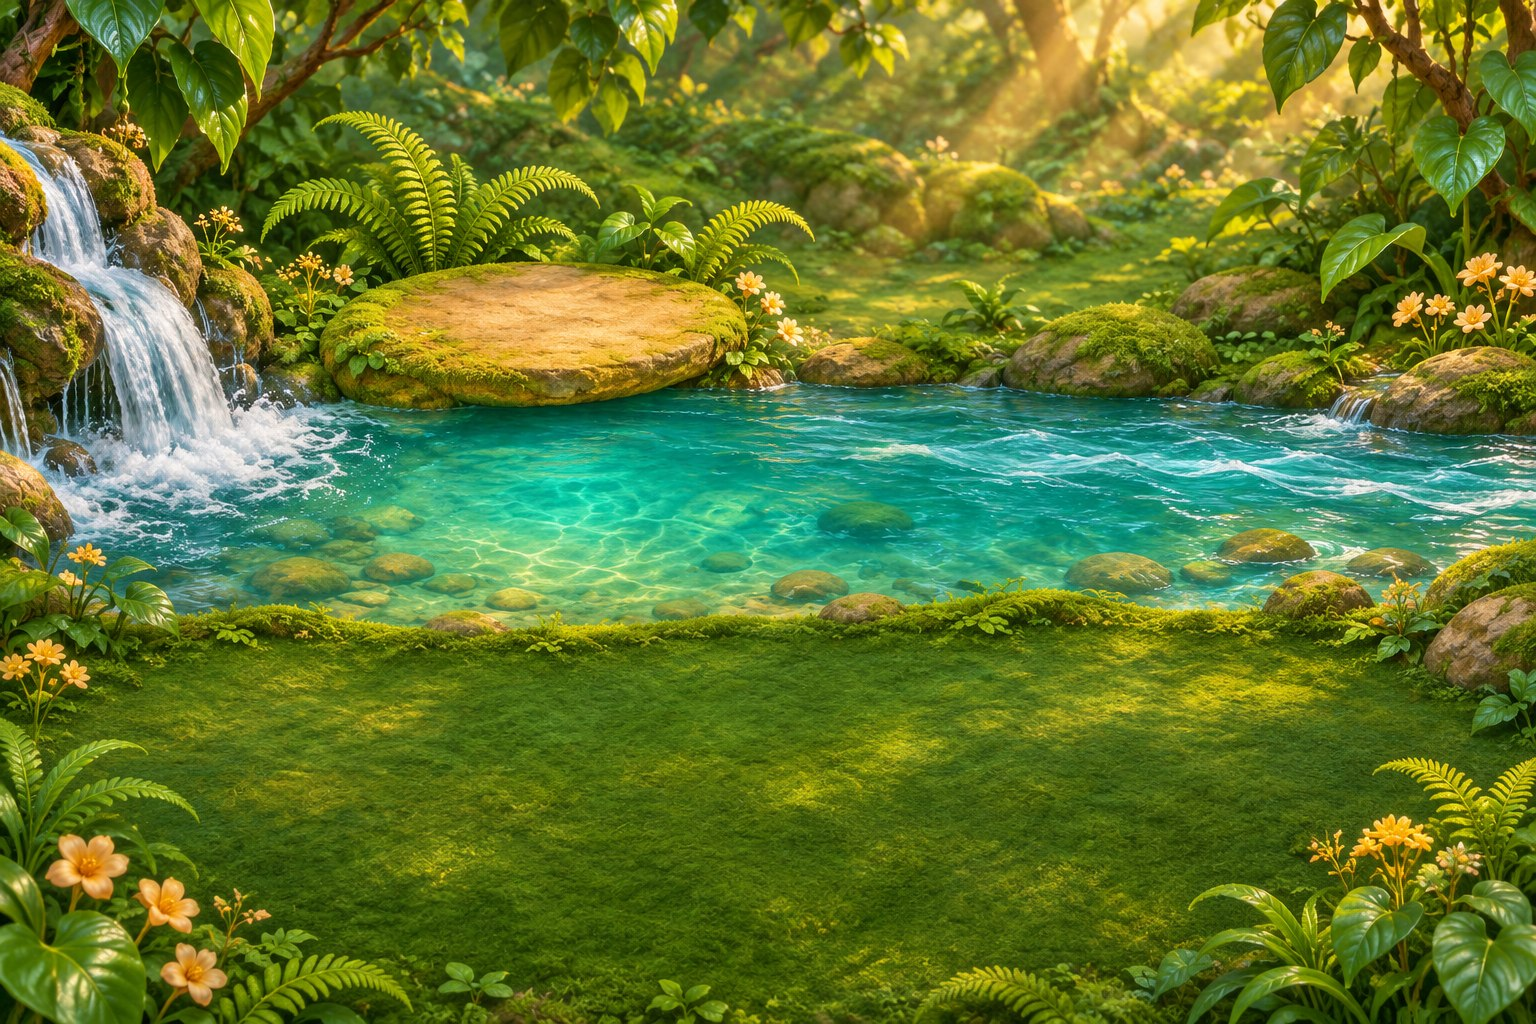
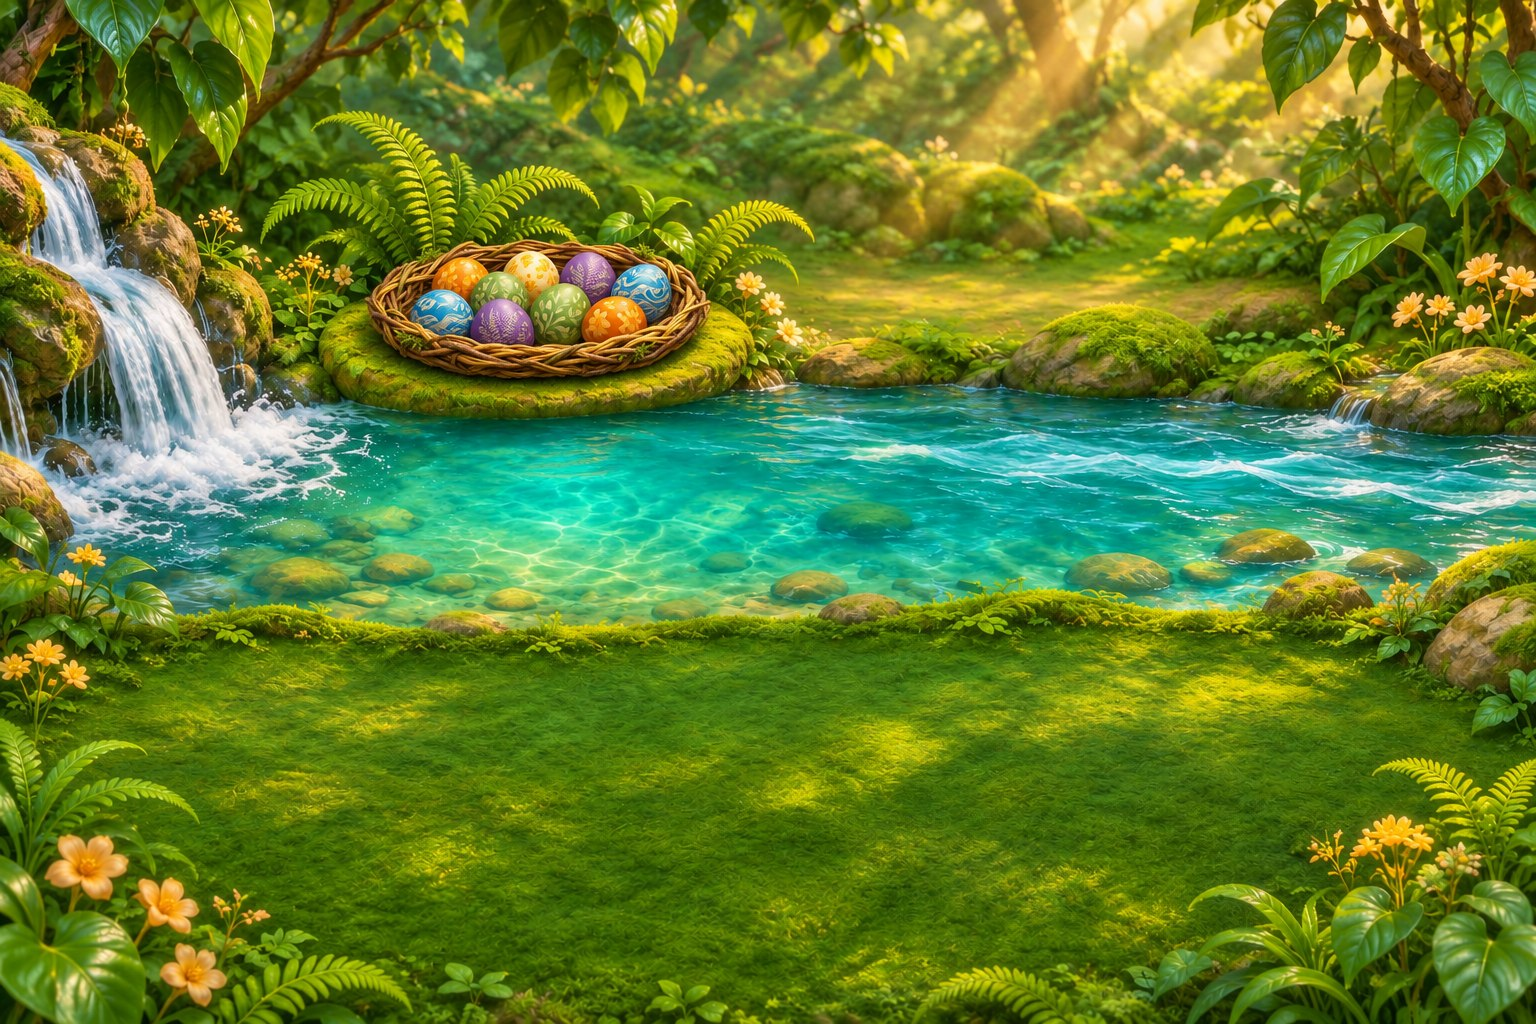
Face the Table discard and separate Pico from the otter

diff --git a/pico.js b/pico.js
@@ -12,8 +12,8 @@ const picoRules = `
   <ol>
     <li>Jouez chacun à votre tour. Choisis un œuf dans le nid.</li>
     <li>Sur la jauge, attends que le curseur soit dans la zone verte, puis touche <strong>Glisser</strong>. Pico descend la cascade avec l’œuf !</li>
-    <li>Un œuf intact rejoint automatiquement une carte-cachette de son motif. À chaque œuf sauvé, la zone verte rétrécit et le curseur accélère.</li>
-    <li>Si l’œuf se fissure, la loutre l’emporte et avance vers le nid. Un œuf du même motif le remplace au tour suivant. Chaque cachette complétée fait reculer la loutre.</li>
+    <li>Un œuf intact rejoint automatiquement une carte-cachette de son motif. Si aucune cachette n’attend ce motif, la main passe au joueur suivant. À chaque œuf sauvé, la zone verte rétrécit et le curseur accélère.</li>
+    <li>Si l’œuf se fissure, la loutre l’emporte et avance vers le nid. Chaque cachette complétée fait reculer la loutre.</li>
     <li>Gagnez ensemble en remplissant toutes les cartes-cachettes avant que la loutre n’atteigne le nid.</li>
   </ol>`;
 
@@ -183,7 +183,7 @@ function picoGame() {
     const { limit } = config();
     const active = phase === 'choose' || phase === 'aim';
     const stageText = {
-      choose: notice || 'Choisis un œuf.',
+      choose: '',
       aim: 'Appuie quand le curseur est dans le vert.',
       slide: 'Pico descend la cascade !',
       place: 'Œuf intact ! Il rejoint sa cachette.',
@@ -191,10 +191,7 @@ function picoGame() {
       steal: 'Attention, la loutre attrape l’œuf !',
       miss: 'La loutre emporte l’œuf fissuré !',
     };
-    const nestSlots = shelters.flatMap(card => card.slots);
-    const carried = ['choose','saved'].includes(phase) ? -1 : nestSlots.findIndex(slot => !slot.filled && slot.egg === selected);
-    const remaining = goal() - total() - Number(carried >= 0);
-    stage.innerHTML = `<div class="pico-table" data-phase="${phase}" data-outcome="${outcome}" data-seat="${player}" style="--otter:${96 - 68 * threat / limit}%;--otter-step:${68 / limit}cqw">
+    stage.innerHTML = `<div class="pico-table" data-phase="${phase}" data-outcome="${outcome}" data-seat="${player}" style="--otter:${96 - 45 * threat / limit}%;--otter-step:${45 / limit}cqw">
       <div class="pico-hud">
         <div class="pico-turn" style="--player:${colors[player]}">● Joueur ${player + 1}</div>
         <div class="pico-progress" aria-label="${total()} œufs sauvés sur ${goal()}">🥚 ${total()} / ${goal()}</div>
@@ -203,17 +200,14 @@ function picoGame() {
         </div>
       </div>
       <div class="pico-stream">
-        <div class="pico-start-nest" data-capacity="${goal()}" role="img" aria-label="Nid de départ, ${remaining} œufs">
-          ${nestSlots.map((slot, i) => `<span class="pico-start-slot">${!slot.filled && i !== carried ? picoEgg(slot.egg) : ''}</span>`).join('')}
-        </div>
         ${actor()}<span class="pico-splash" aria-hidden="true"></span>
         <div class="pico-otter"><img src="./covers/pico-otter.png" alt="La loutre" draggable="false">${phase === 'steal' || phase === 'miss' ? picoEgg(selected) : ''}</div>
       </div>
       <div class="pico-dock">
-        <p class="pico-status" role="status">${stageText[phase]}</p>
+        ${stageText[phase] ? `<p class="pico-status" role="status">${stageText[phase]}</p>` : ''}
         ${phase === 'aim' ? meter() : ''}
         <div class="pico-tools">
-          ${active ? (phase === 'choose' ? picoEggs.map((name,i)=>`<button class="pico-choice" data-egg="${i}" aria-label="Œuf ${name}" ${!shelters.some(card => needs(card,i)) ? 'disabled' : ''}>${picoEgg(i)}</button>`).join('') :
+          ${active ? (phase === 'choose' ? picoEggs.map((name,i)=>`<button class="pico-choice" data-egg="${i}" aria-label="Œuf ${name}" >${picoEgg(i)}</button>`).join('') :
             '<button class="pico-action" data-slide>➜ Glisser</button>') : ''}
         </div>
       </div>
@@ -263,9 +257,13 @@ function picoGame() {
   function resolveSlide() {
     const reduced = matchMedia('(prefers-reduced-motion: reduce)').matches;
     if (outcome === 'safe') {
+      const index = shelters.findIndex(card => needs(card, selected));
+      if (index === -1) {
+        next();
+        return;
+      }
       phase = 'place';
       render();
-      const index = shelters.findIndex(card => needs(card, selected));
       const slot = shelters[index].slots.findIndex(item => !item.filled && item.egg === selected);
       flyEgg(stage.querySelector(`[data-slot="${index}-${slot}"] .pico-egg`), reduced ? 0 : 500);
       timer = setTimeout(() => shelter(index, slot), reduced ? 0 : 500);
@@ -316,12 +314,12 @@ function picoGame() {
     }, matchMedia('(prefers-reduced-motion: reduce)').matches ? 80 : 680);
   }
 
-  function next(text = '') {
+  function next() {
     player = (player + 1) % playerCount;
     selected = -1;
     outcome = '';
     phase = 'choose';
-    notice = text;
+    notice = '';
     filledCard = -1;
     filledSlot = -1;
     render();

diff --git a/pico.css b/pico.css
@@ -32,23 +32,9 @@
 .pico-threat i { width:8px; height:8px; background:#d4f8dc45; border-radius:50%; }
 .pico-threat i.filled { background:#ffb38e; box-shadow:0 0 9px #ffac8caa; }
 .pico-stream { position:absolute; z-index:1; container-type:inline-size; inset:0 14%; pointer-events:none; }
-.pico-start-nest {
-  position:absolute; z-index:1; left:28.5%; top:28.5%; transform:translate(-50%,-50%);
-  display:grid; grid-template-columns:repeat(6,minmax(0,1fr)); grid-template-rows:repeat(2,minmax(0,1fr));
-  width:clamp(110px,20vw,230px); aspect-ratio:2.45; gap:2px;
-  padding:clamp(8px,1.1vw,14px) clamp(18px,2.6vw,31px);
-  background:url('./covers/pico-nest.png') center/contain no-repeat;
-  filter:drop-shadow(0 4px 4px #302417a6);
-}
-.pico-start-nest[data-capacity="9"] { grid-template-columns:repeat(10,minmax(0,1fr)); width:clamp(105px,18vw,207px); }
-.pico-start-nest[data-capacity="9"] .pico-start-slot { grid-column:span 2; }
-.pico-start-nest[data-capacity="9"] .pico-start-slot:nth-child(6) { grid-column:2 / span 2; }
-.pico-start-slot { min-width:0; min-height:0; display:grid; place-items:center; }
-.pico-start-slot .pico-egg { width:min(100%,23px); height:100%; min-height:0; }
-.pico-start-slot img { min-height:0; }
 .pico-bird,.pico-otter { position:absolute; transform:translate(-50%,-50%); }
-.pico-bird { z-index:2; width:clamp(105px,18vw,204px); left:41%; top:48%; }
-.pico-otter { z-index:1; width:clamp(96px,18vw,200px); left:var(--otter); top:54%; }
+.pico-bird { z-index:2; width:clamp(105px,18vw,204px); left:39%; top:52%; }
+.pico-otter { z-index:1; width:clamp(86px,16vw,180px); left:var(--otter); top:27%; }
 .pico-bird > img,.pico-otter > img,.pico-finish img { display:block; width:100%; filter:drop-shadow(0 8px 9px #10281b83); }
 .pico-bird > .pico-egg { position:absolute; left:65%; top:45%; width:26%; }
 .pico-otter > img { scale:-1 1; }
@@ -59,7 +45,7 @@
 .pico-table[data-phase=aim] .pico-bird > img { animation:pico-bob 1.6s ease-in-out infinite; }
 .pico-table[data-phase=steal] .pico-otter > img { animation:pico-lunge .4s cubic-bezier(.24,.65,.36,1) both; }
 .pico-table[data-phase=steal] .pico-otter > .pico-egg { animation:pico-reveal .01s .43s both; }
-.pico-splash { position:absolute; left:66%; top:66%; width:15%; height:23%; border:3px solid #e3fffbbd; border-radius:50%; opacity:0; }
+.pico-splash { position:absolute; left:73%; top:58%; width:15%; height:7%; border:3px solid #e3fffbbd; border-radius:50%; opacity:0; }
 .pico-table[data-phase=slide] .pico-splash { animation:pico-ripple .5s .29s ease-out; }
 .pico-dock {
   position:absolute; bottom:4%; left:50%; z-index:3; transform:translateX(-50%);
@@ -104,10 +90,10 @@
 .pico-slot.filled .pico-egg { opacity:1; filter:none; }
 .pico-slot.just-saved { animation:pico-tuck .58s cubic-bezier(.2,.75,.25,1) both; }
 @keyframes pico-ride {
-  0% { left:41%; transform:translate(-50%,-50%) rotate(-8deg); }
+  0% { left:39%; transform:translate(-50%,-50%) rotate(-8deg); }
   45% { transform:translate(-50%,-62%) rotate(6deg); }
   78% { transform:translate(-50%,-42%) rotate(-5deg); }
-  100% { left:66%; transform:translate(-50%,-50%); }
+  100% { left:73%; transform:translate(-50%,-50%); }
 }
 @keyframes pico-bob { 50% { transform:translateY(-5px) rotate(-3deg); } }
 @keyframes pico-ripple { from { opacity:.9; transform:translate(-50%,-50%) scale(.35); } to { opacity:0; transform:translate(-50%,-50%) scale(1.45); } }
@@ -134,7 +120,6 @@
 }
 @media (max-width:700px) {
   .pico-stream { inset-inline:13%; }
-  .pico-start-nest { left:29%; top:30%; }
   .pico-bird { width:clamp(78px,18vw,130px); }
   .pico-otter { width:clamp(76px,18vw,125px); }
   .pico-nests { width:96%; }
@@ -147,7 +132,7 @@
   .pico-threat i { width:6px; height:6px; }
 }
 @media (prefers-reduced-motion:reduce) {
-  .pico-table[data-phase=slide] .pico-bird { animation:none; left:66%; }
+  .pico-table[data-phase=slide] .pico-bird { animation:none; left:73%; }
   .pico-table[data-phase=aim] .pico-bird > img,.pico-table[data-phase=steal] .pico-otter > img,
   .pico-table[data-phase=steal] .pico-otter > .pico-egg,.pico-table[data-phase=slide] .pico-splash,
   .pico-slot.just-saved,.pico-nest:has(.just-saved)::after { animation:none; }

diff --git a/table.js b/table.js
@@ -29,7 +29,6 @@ function tableGame() {
   let phase = 'setup';
   let last = null;
   let topCard = null;
-  let discarded = 0;
   let timer;
   const reducedMotion = matchMedia('(prefers-reduced-motion: reduce)');
   let soundOn = true;
@@ -93,7 +92,6 @@ function tableGame() {
     active = 0;
     last = null;
     topCard = null;
-    discarded = 0;
     phase = 'pick';
     sound([392, 523, 659]);
     render();
@@ -127,7 +125,6 @@ function tableGame() {
 
   function reveal() {
     topCard = last.card;
-    discarded++;
     phase = 'reveal';
     sound(last.correct ? [523, 659, 784] : [349, 262]);
     render();
@@ -149,6 +146,10 @@ function tableGame() {
       const y = previousDock.y + previousDock.height / 2 - currentDock.y - currentDock.height / 2;
       const currentAngle = parseFloat(getComputedStyle(dock).rotate) || 0;
       const offset = (previousAngle - currentAngle + 540) % 360 - 180;
+      stage.querySelector('.table-discard').animate([
+        { rotate: `${currentAngle + offset}deg` },
+        { rotate: `${currentAngle}deg` },
+      ], { duration: 320, easing: 'ease-out' });
       dock.animate([
         { translate: `calc(-50% + ${x}px) calc(-50% + ${y}px)`, rotate: `${currentAngle + offset}deg`, opacity: .6 },
         { translate: '-50% -50%', rotate: `${currentAngle}deg`, opacity: 1 },
@@ -181,11 +182,10 @@ function tableGame() {
       ${seats()}
       <div class="table-center">
         <span class="table-turn" style="--player:${player.color}">● Tour de ${player.name}</span>
-        <div class="table-discard" data-count="${discarded}">
+        <div class="table-discard" data-filled="${topCard !== null}">
           ${topCard !== null ? `<figure class="table-card ${revealed ? 'fresh' : ''}" aria-label="Carte révélée : ${tableMenu[topCard]}">${tableImage(topCard)}</figure>` :
             '<div class="table-card table-back" role="img" aria-label="Carte face cachée">✦</div>'}
           ${revealed ? `<span class="table-result" aria-hidden="true">${last.correct ? '✓' : '×'}</span>` : ''}
-          <span class="table-count table-discard-count" role="img" aria-label="${discarded} cartes jouées"><i></i>${discarded}</span>
         </div>
         <p class="table-status" role="status">${status}</p>
       </div>

diff --git a/table.css b/table.css
@@ -28,7 +28,6 @@
   width:8px; height:11px; border:1px solid currentColor; border-radius:2px;
   transform:rotate(-14deg); box-shadow:2px 1px #123738,3px 2px currentColor;
 }
-.table-discard-count { padding:3px 10px; }
 .table-stack { display:grid; place-items:center; width:var(--hand-card,clamp(16px,2.4vw,28px)); aspect-ratio:3/4; border:1px solid var(--player); border-radius:5px; color:var(--player); background:linear-gradient(145deg,#255c61,#143337); box-shadow:0 2px 0 #190e24; font-size:.7rem; }
 .table-center { grid-area:center; display:grid; justify-items:center; align-content:center; gap:9px; }
 .table-turn { border:1px solid var(--player); border-radius:999px; color:var(--player); background:#143a3b; padding:5px 12px; font-weight:800; }
@@ -83,12 +82,15 @@
   .table-board[data-active="1"] .table-dock { left:79%; top:50%; rotate:-90deg; }
   .table-board[data-active="2"] .table-dock { top:24.5%; rotate:180deg; }
   .table-board[data-active="3"] .table-dock { left:21%; top:50%; rotate:90deg; }
+  .table-board[data-active="1"] .table-discard { rotate:-90deg; }
+  .table-board[data-active="2"] .table-discard { rotate:180deg; }
+  .table-board[data-active="3"] .table-discard { rotate:90deg; }
 }
 @media (orientation:portrait), (max-width:699px) {
   .table-seat-1 .table-hand,.table-seat-3 .table-hand { display:grid; grid-template-columns:repeat(2,auto); }
 }
 .table-discard { display:grid; position:relative; justify-items:center; gap:8px; }
-.table-discard:not([data-count="0"]) .table-card { box-shadow:0 3px #23474a,0 5px #ffd99b,0 7px #23474a,0 9px #d6ae78,0 12px 19px #09252799; }
+.table-discard[data-filled=true] .table-card { box-shadow:0 3px #23474a,0 5px #ffd99b,0 7px #23474a,0 9px #d6ae78,0 12px 19px #09252799; }
 .table-flying { position:fixed; z-index:5; pointer-events:none; }
 .table-result {
   position:absolute; z-index:1; top:8px; right:5px; translate:33% -38%;

diff --git a/sw.js b/sw.js
@@ -1,4 +1,4 @@
-const CACHE = 'family-board-v32';
+const CACHE = 'family-board-v33';
 const HOME = new URL('index.html', self.registration.scope).href;
 const ASSETS = [
   'index.html', 'styles.css', 'launcher.css', 'app.js', 'catalog.js',
@@ -14,7 +14,7 @@ const ASSETS = [
   'covers/table-card-0.jpg', 'covers/table-card-1.jpg', 'covers/table-card-2.jpg',
   'pico.js', 'pico.css', 'covers/pico.jpg', 'covers/pico-board.jpg', 'covers/pico-token.png',
   'covers/pico-egg-0.png', 'covers/pico-egg-1.png', 'covers/pico-egg-2.png', 'covers/pico-egg-3.png',
-  'covers/pico-otter.png', 'covers/pico-shelter.jpg', 'covers/pico-nest.png',
+  'covers/pico-otter.png', 'covers/pico-shelter.jpg',
   'prism.js', 'prism.css', 'covers/prism.jpg', 'covers/prism-board.jpg',
   'covers/prism-robot-0.jpg', 'covers/prism-robot-1.jpg', 'covers/prism-robot-2.jpg', 'covers/prism-robot-3.jpg',
   'lagoon.js', 'lagoon.css', 'covers/lagoon.jpg', 'covers/lagoon-board.jpg', 'covers/lagoon-treasures.jpg',
